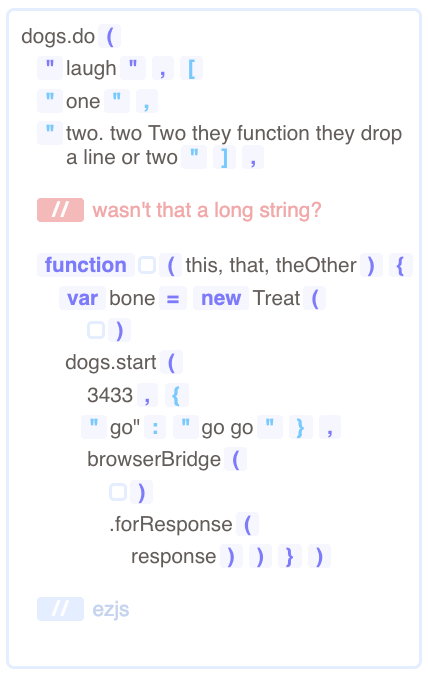
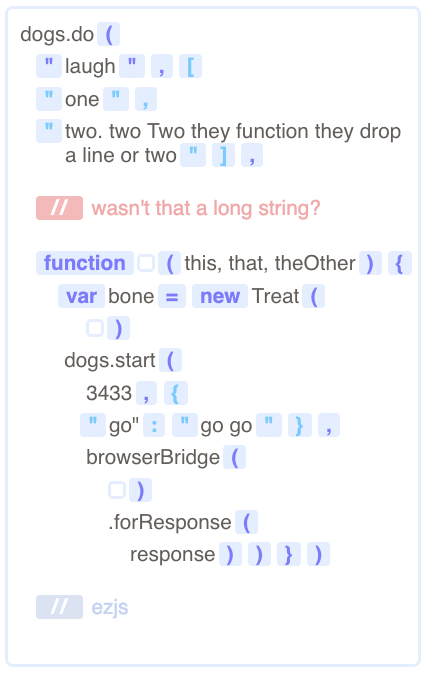
steez

diff --git a/render-code.js b/render-code.js
@@ -205,8 +205,8 @@ module.exports = library.export(
 
     var SYM_PADDING = "8px"
     var LOGO_COLOR = "red"
-    var SYM_BACKGROUND = "#e5eeff"
-    var LIGHT_SYM = "#f6f6ff"
+    var SYM_BACKGROUND = "#dbe3f1"
+    var LIGHT_SYM = "#e5eeff"
     var DARK_SYM = "#c6d4ef"
 
     var stylesheet = element.stylesheet([
@@ -214,7 +214,7 @@ module.exports = library.export(
         "min-width": "15em",
         "max-width": "25em",
         "min-height": "5em",
-        "border": "3px solid #e5eeff",
+        "border": "3px solid "+LIGHT_SYM,
         "box-siding": "border-box",
         "border-radius": "8px",
         "padding": "5px",
